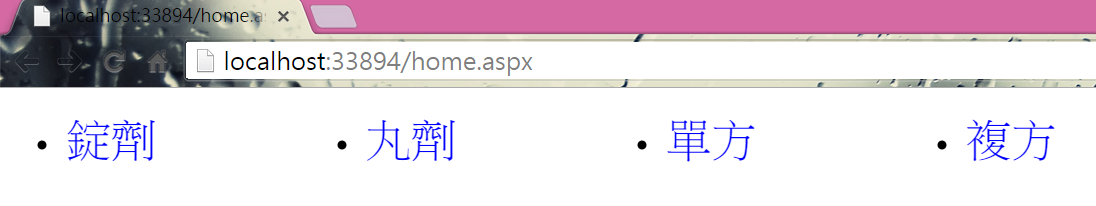
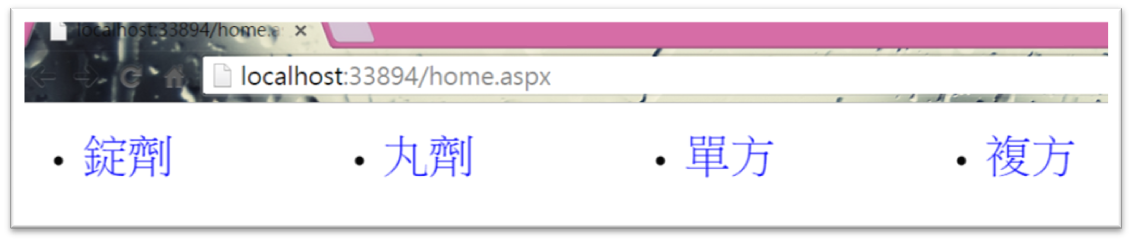
image tag add img-responsive class

Changed region(s): [[0.0, 0.0, 1.0, 0.9903], [0.3102, 0.5534, 0.4343, 0.7864], [0.5584, 0.5534, 0.6825, 0.7864]]

diff --git a/_posts/core-samples/2015-9-17-MVC(2).md b/_posts/core-samples/2015-9-17-MVC(2).md
@@ -23,7 +23,7 @@ tags : [beginner, asp.net, tutorial,mvc,教學]
 
 呈現的結果：
 
-![AboutView]({{BASE_PATH}}/assets/img/mvc02/about.jpg)
+![AboutView]({{BASE_PATH}}/assets/img/mvc02/about.jpg){: .img-responsive}
 
 ####ViewBag更多應用
 在Contact這個頁面我們準備提供各部門資料在這個頁面呈現，加入部門清單到ViewBag如下所示的ContactController。
@@ -36,7 +36,7 @@ View的部分：
 
 呈現的結果：
 
-![addlist2View]({{BASE_PATH}}/assets/img/mvc02/about02.jpg)
+![addlist2View]({{BASE_PATH}}/assets/img/mvc02/about02.jpg){: .img-responsive}
 
 
 

diff --git a/_posts/core-samples/2015-9-15-mvc(1).md b/_posts/core-samples/2015-9-15-mvc(1).md
@@ -61,4 +61,3 @@ JsonResult繼承自ActionResult，用來輸出JSON格式的內容。
         return Json(users, JsonRequestBehavior.AllowGet);
     }  
 
-<script type="text/javascript" src="http://zh.forvo.com/_ext/ext-prons.js?id=3385683"></script>

diff --git a/_posts/core-samples/2015-9-13-WebForm.md b/_posts/core-samples/2015-9-13-WebForm.md
@@ -33,6 +33,6 @@ tags : [beginner, asp.net, tutorial,webform,教學]
 
 ###呈現畫面
 
-![My helpful screenshot]({{BASE_PATH}}/assets/img/webform01/1.png)
+![My helpful screenshot]({{BASE_PATH}}/assets/img/webform01/1.png){: .img-responsive}
 
 
